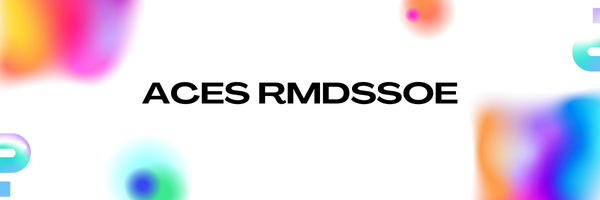
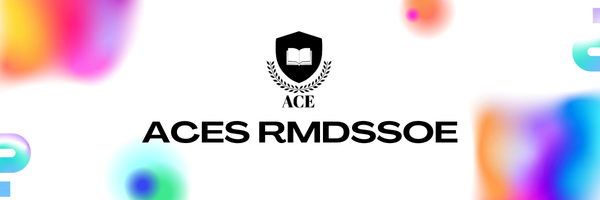
Fix Header Image

Changed region(s): [[0.24, 0.15, 0.78, 0.54], [0.24, 0.6, 0.78, 0.72]]

diff --git a/certificate_notification.html b/certificate_notification.html
@@ -3,8 +3,8 @@
     <img
       alt="ACES Header"
       style="width: 100%; height: auto"
-      srcset="
-        https://aces-rmdssoe.tech/images/communication/ACES_Email_Header.png
+      src="
+      https://raw.githubusercontent.com/ACES-RMDSSOE/communication/main/ACES_Email_Header.png
       "
     />
   </a>
@@ -58,12 +58,3 @@
     <p style="margin: 0">&copy; 2024 ACES RMDSSOE. All rights reserved.</p>
   </div>
 </div>
-
-<style>
-  @media (prefers-color-scheme: dark) {
-    a[href="https://certificate.aces-rmdssoe.tech"]
-    {
-      background-color: #0056b3;
-    }
-  }
-</style>
